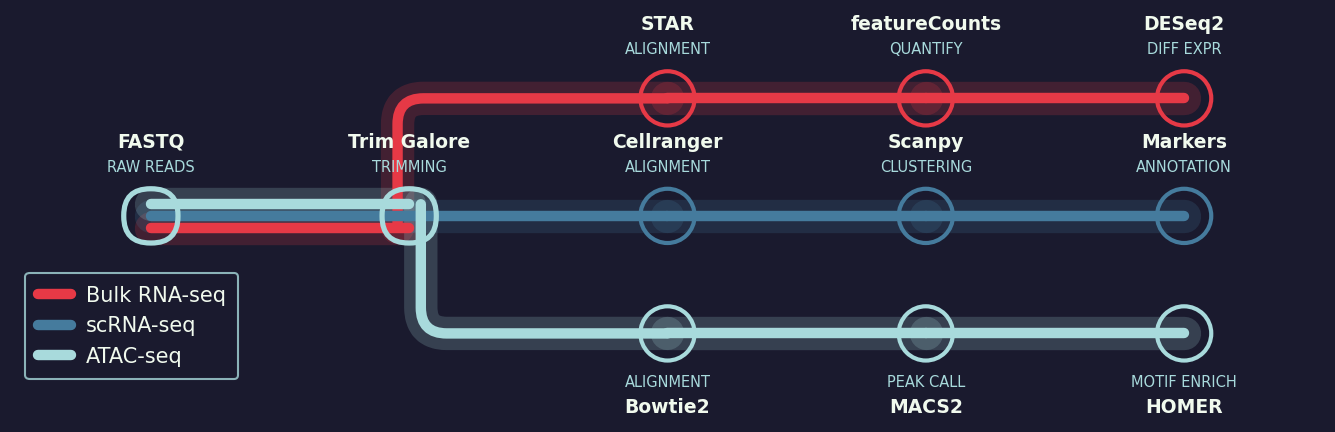
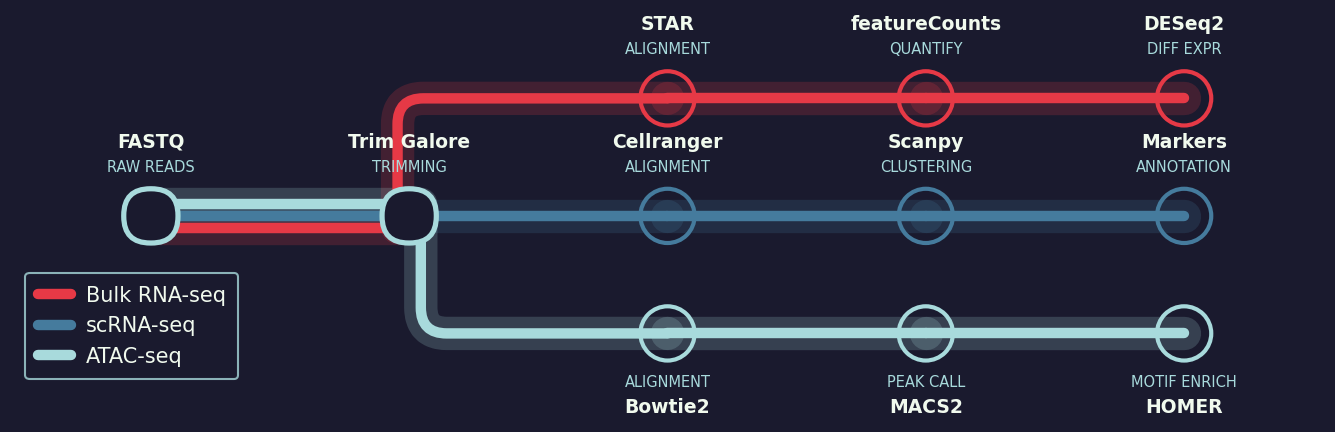
Fix dark theme interchange pill; re-render all examples
Add station_interchange_fill to Theme so interchange pills can use an
opaque fill independently of station_fill. Dark theme sets it to
#1a1a2e so crossing tracks are hidden at branching stations instead of
showing through the transparent pill. Also re-renders all layout and
theme showcase images.

Changed region(s): [[0.2764, 0.4514, 0.3378, 0.5718], [0.0921, 0.4213, 0.1536, 0.5718]]

diff --git a/src/metroplot/_core.py b/src/metroplot/_core.py
@@ -446,6 +446,9 @@ class Diagram:
             rel = [line_offset[li] - sdy_here for li in slines]
             pad = radius * 0.45
             spread = (station_spread or {}).get(s.name, "y")
+            pill_fill = (th.station_interchange_fill
+                         if th.station_interchange_fill is not None
+                         else th.station_fill)
             if spread == "x":
                 cx_pill = s.x + (min(rel) + max(rel)) / 2
                 w = max(max(rel) - min(rel) + 2 * pad, 2 * radius)
@@ -456,7 +459,7 @@ class Diagram:
                     max(w - 2 * r_box, 1e-3),
                     max(h - 2 * r_box, 1e-3),
                     boxstyle=f"round,pad={r_box}",
-                    facecolor=th.station_fill,
+                    facecolor=pill_fill,
                     edgecolor=edge_color,
                     linewidth=edge_lw,
                     zorder=10,
@@ -471,7 +474,7 @@ class Diagram:
                     max(w - 2 * r_box, 1e-3),
                     max(h - 2 * r_box, 1e-3),
                     boxstyle=f"round,pad={r_box}",
-                    facecolor=th.station_fill,
+                    facecolor=pill_fill,
                     edgecolor=edge_color,
                     linewidth=edge_lw,
                     zorder=10,

diff --git a/src/metroplot/themes.py b/src/metroplot/themes.py
@@ -178,6 +178,7 @@ class Theme:
 
     # Station circles
     station_fill: str = "none"
+    station_interchange_fill: str | None = None  # None → falls back to station_fill
     station_edge: str = "#111111"
     station_edge_width: float = 2.5
     station_dot: bool = True
@@ -235,11 +236,12 @@ LIGHT = Theme(
 DARK = Theme(
     name="dark",
     background="none",
-    station_fill="none",        # transparent fill → station reads as a ring
+    station_fill="none",              # transparent fill → station reads as a ring
+    station_interchange_fill="#1a1a2e",  # opaque pill so crossing tracks are hidden
     station_edge="#a8dadc",
     station_edge_width=2.0,
     station_dot=False,
-    station_colored_edge=True,  # ring picks up the line colour
+    station_colored_edge=True,        # ring picks up the line colour
     label_color="#f1faee",
     sub_color="#a8dadc",
     glow=True,
